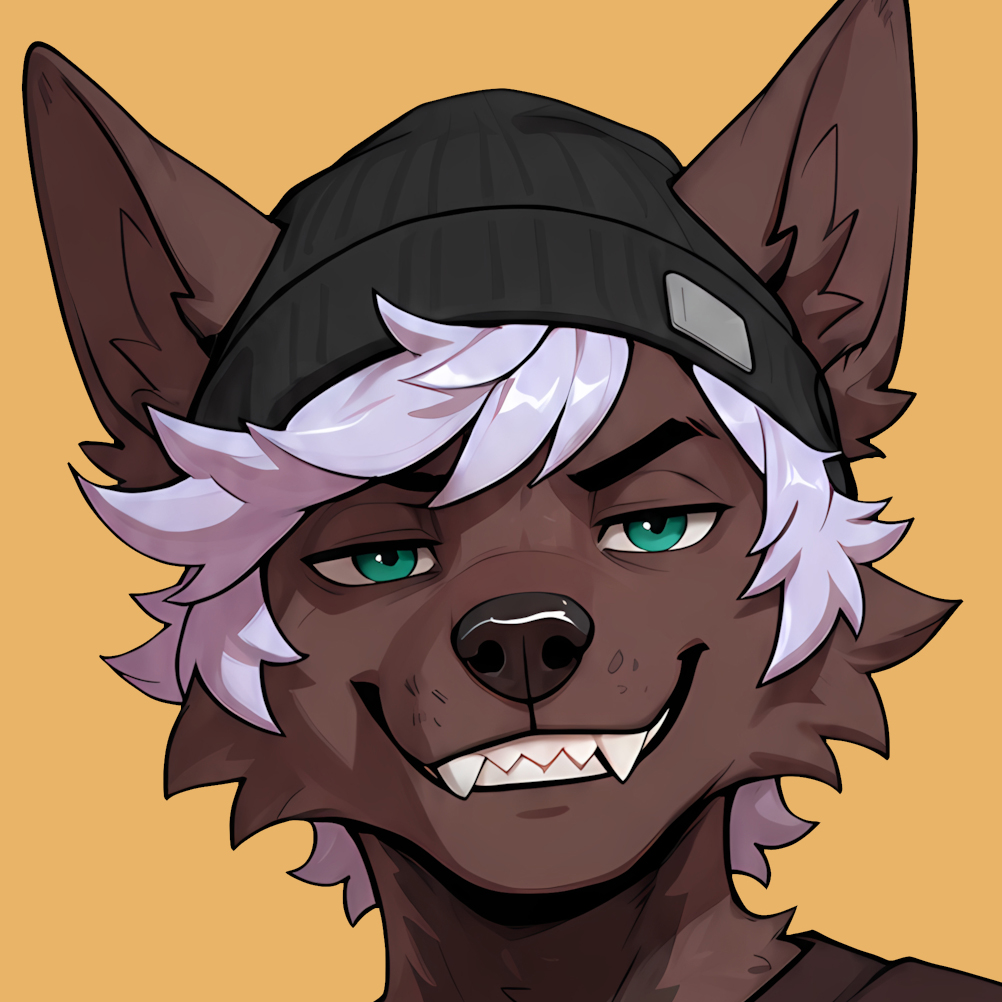
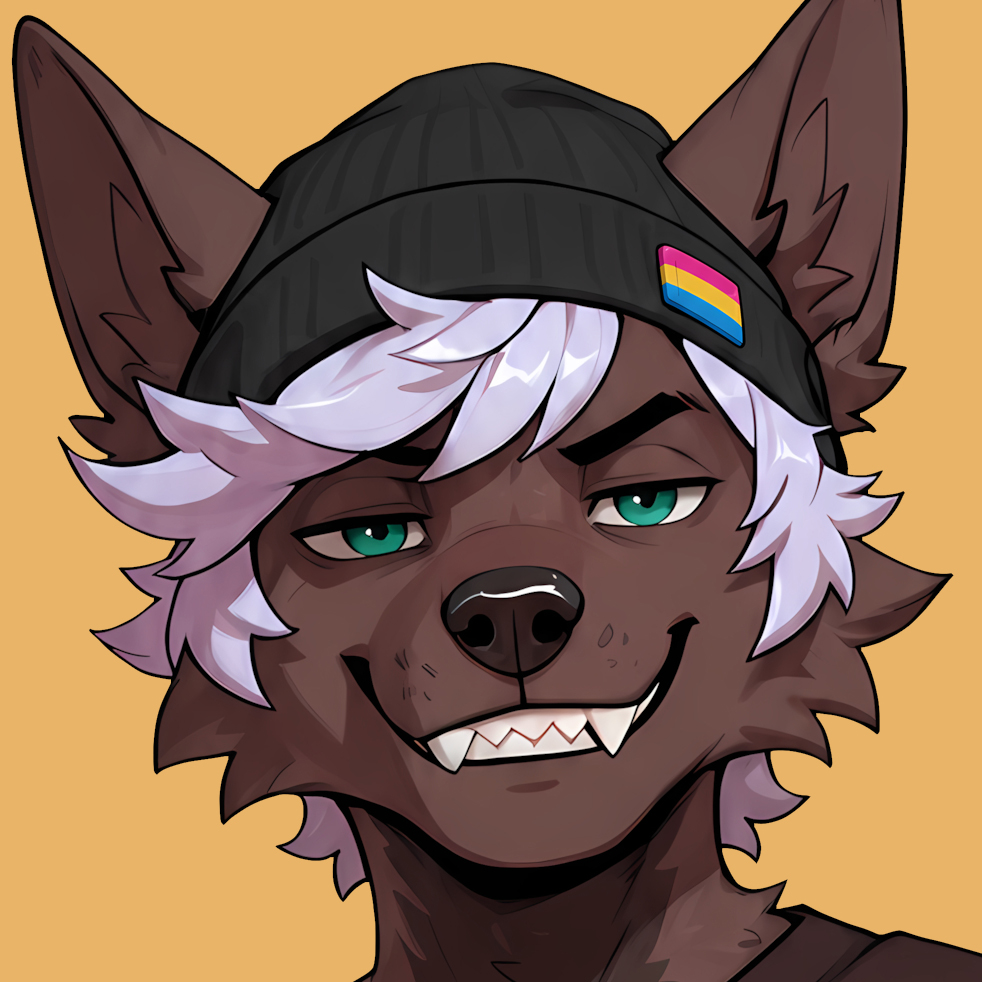
Add collapsible profile identity

diff --git a/site/index.html b/site/index.html
@@ -216,7 +216,43 @@
       border-bottom: 1px solid rgba(255,255,255,.10);
       background: rgba(255,255,255,.03);
     }
-    .shell-identity{ text-align: right; }
+    .shell-identity-control{
+      display: flex;
+      align-items: center;
+      justify-content: flex-end;
+      gap: 12px;
+      padding: 0;
+      border: 0;
+      background: transparent;
+      color: inherit;
+      font: inherit;
+      cursor: pointer;
+    }
+    .shell-identity{
+      max-width: 180px;
+      overflow: hidden;
+      text-align: right;
+      white-space: nowrap;
+      opacity: 1;
+      transform: translateX(0);
+      transition: max-width .32s ease, opacity .22s ease, transform .32s ease;
+    }
+    .shell-identity-control.is-collapsed .shell-identity{
+      max-width: 0;
+      opacity: 0;
+      transform: translateX(14px);
+    }
+    .shell-identity-control.is-collapsed:hover .shell-identity,
+    .shell-identity-control.is-collapsed:focus .shell-identity,
+    .shell-identity-control.is-collapsed:focus-within .shell-identity{
+      max-width: 180px;
+      opacity: 1;
+      transform: translateX(0);
+    }
+    .shell-identity-control:focus-visible img{
+      outline: 2px solid rgba(255,255,255,.55);
+      outline-offset: 3px;
+    }
 
     .shell-body{
       flex: 1;
@@ -330,6 +366,7 @@
   }
 
   @media (prefers-reduced-motion: reduce){
+    .shell-identity{ transition: none !important; }
     html.js .mica-window,
     html.js .mica-shell{
       transition: none !important;
@@ -353,14 +390,14 @@
         </a>
       </div>
 
-      <div class="flex items-center justify-end gap-3 min-w-0">
+      <button type="button" class="shell-identity-control min-w-0" aria-label="Show profile identity">
         <div class="shell-identity leading-tight min-w-0">
           <div class="font-semibold truncate">@Starworshipper</div>
           <div class="text-white/60 text-sm truncate">Certified dumb dog.</div>
         </div>
 
         <img src="/av.jpg" alt="" class="w-12 h-12 rounded-full border border-white/15 bg-white/5">
-      </div>
+      </button>
     </div>
 
     <!-- Layout -->
@@ -1104,6 +1141,16 @@ closeBtn?.addEventListener('click', closeMedia);
 
 document.addEventListener('keydown', (e) => {
   if (e.key === 'Escape' && !modal.classList.contains('hidden')) closeMedia();
+});
+</script>
+
+<script>
+document.addEventListener('DOMContentLoaded', () => {
+  const identity = document.querySelector('.shell-identity-control');
+  if (!identity) return;
+
+  const delay = window.matchMedia('(prefers-reduced-motion: reduce)').matches ? 0 : 1600;
+  window.setTimeout(() => identity.classList.add('is-collapsed'), delay);
 });
 </script>
 
